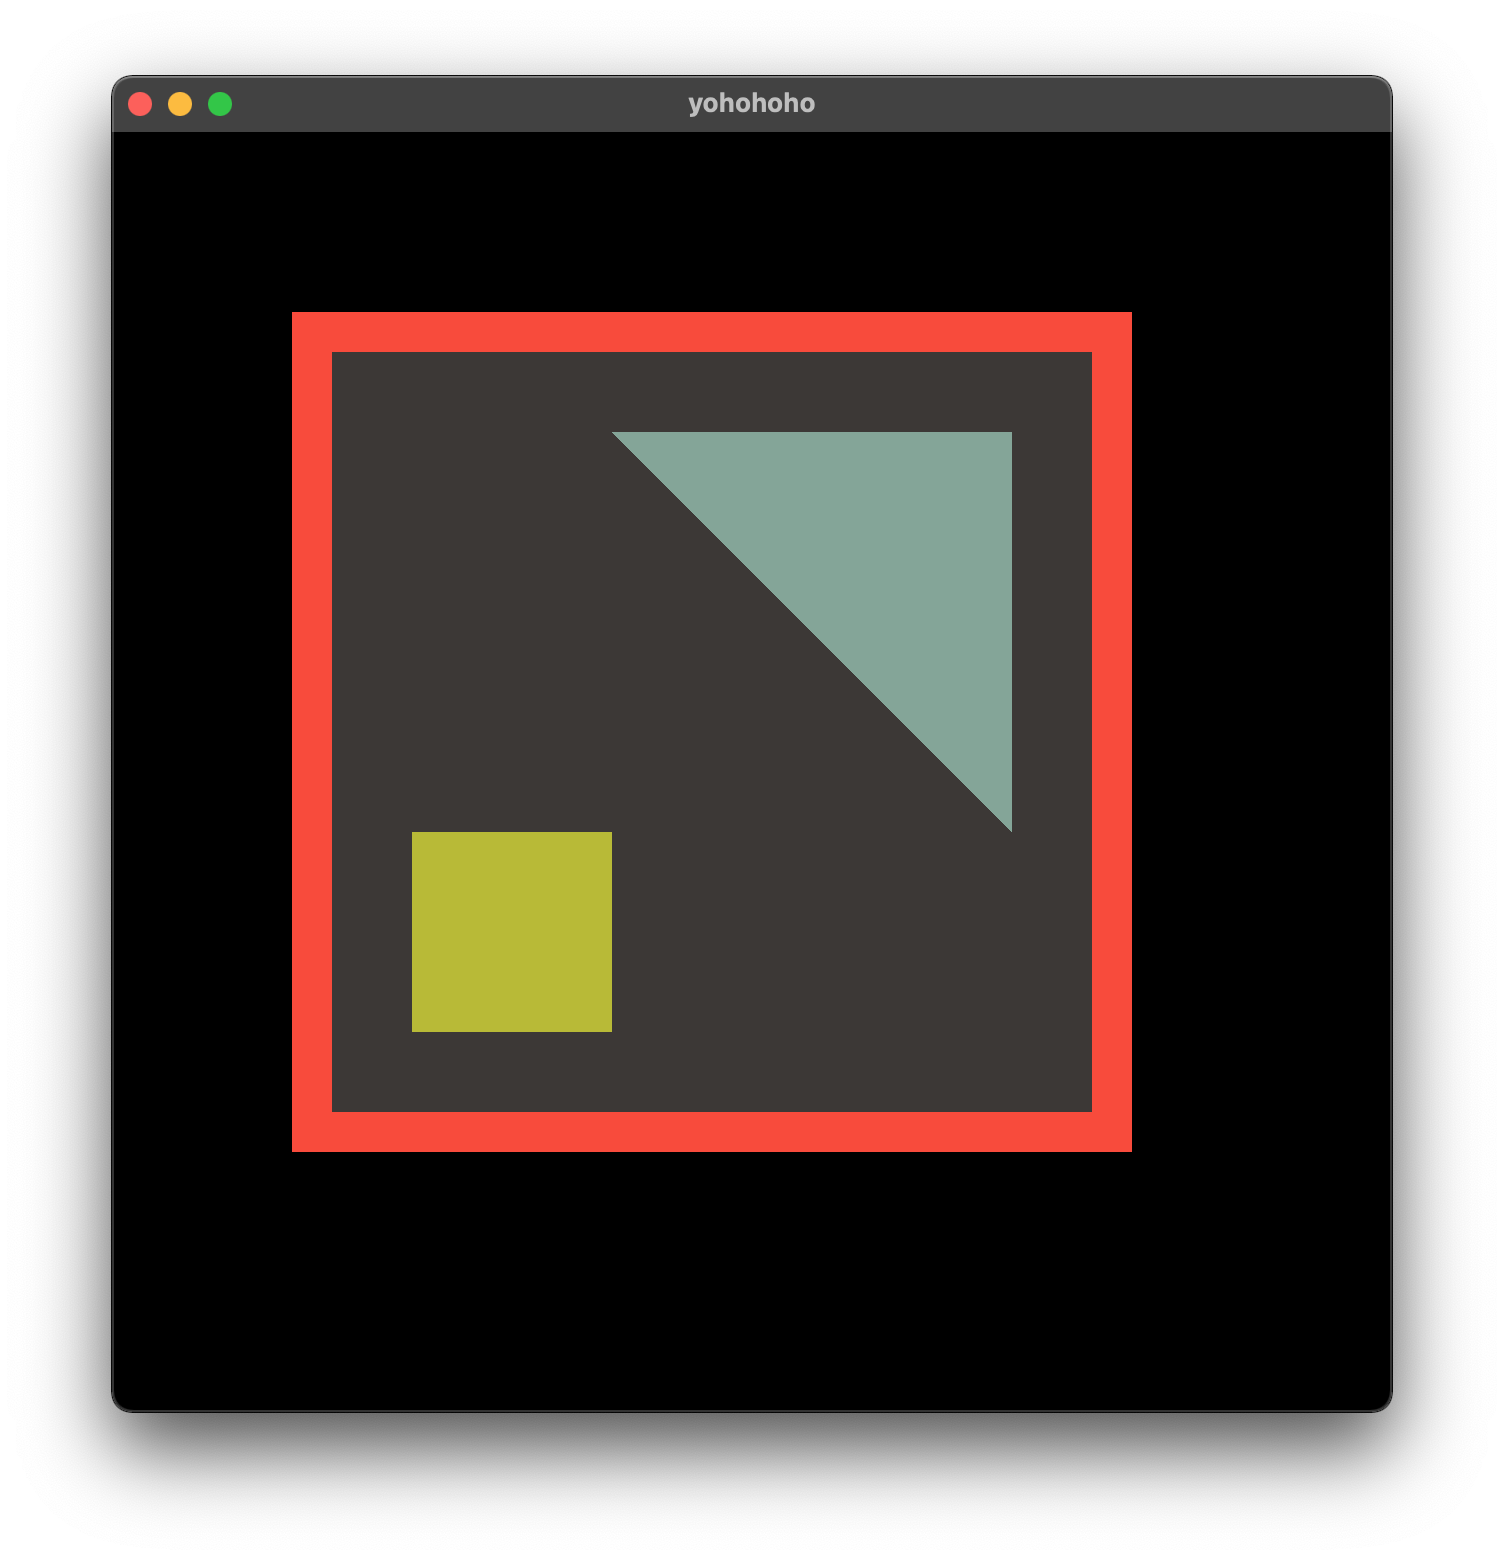
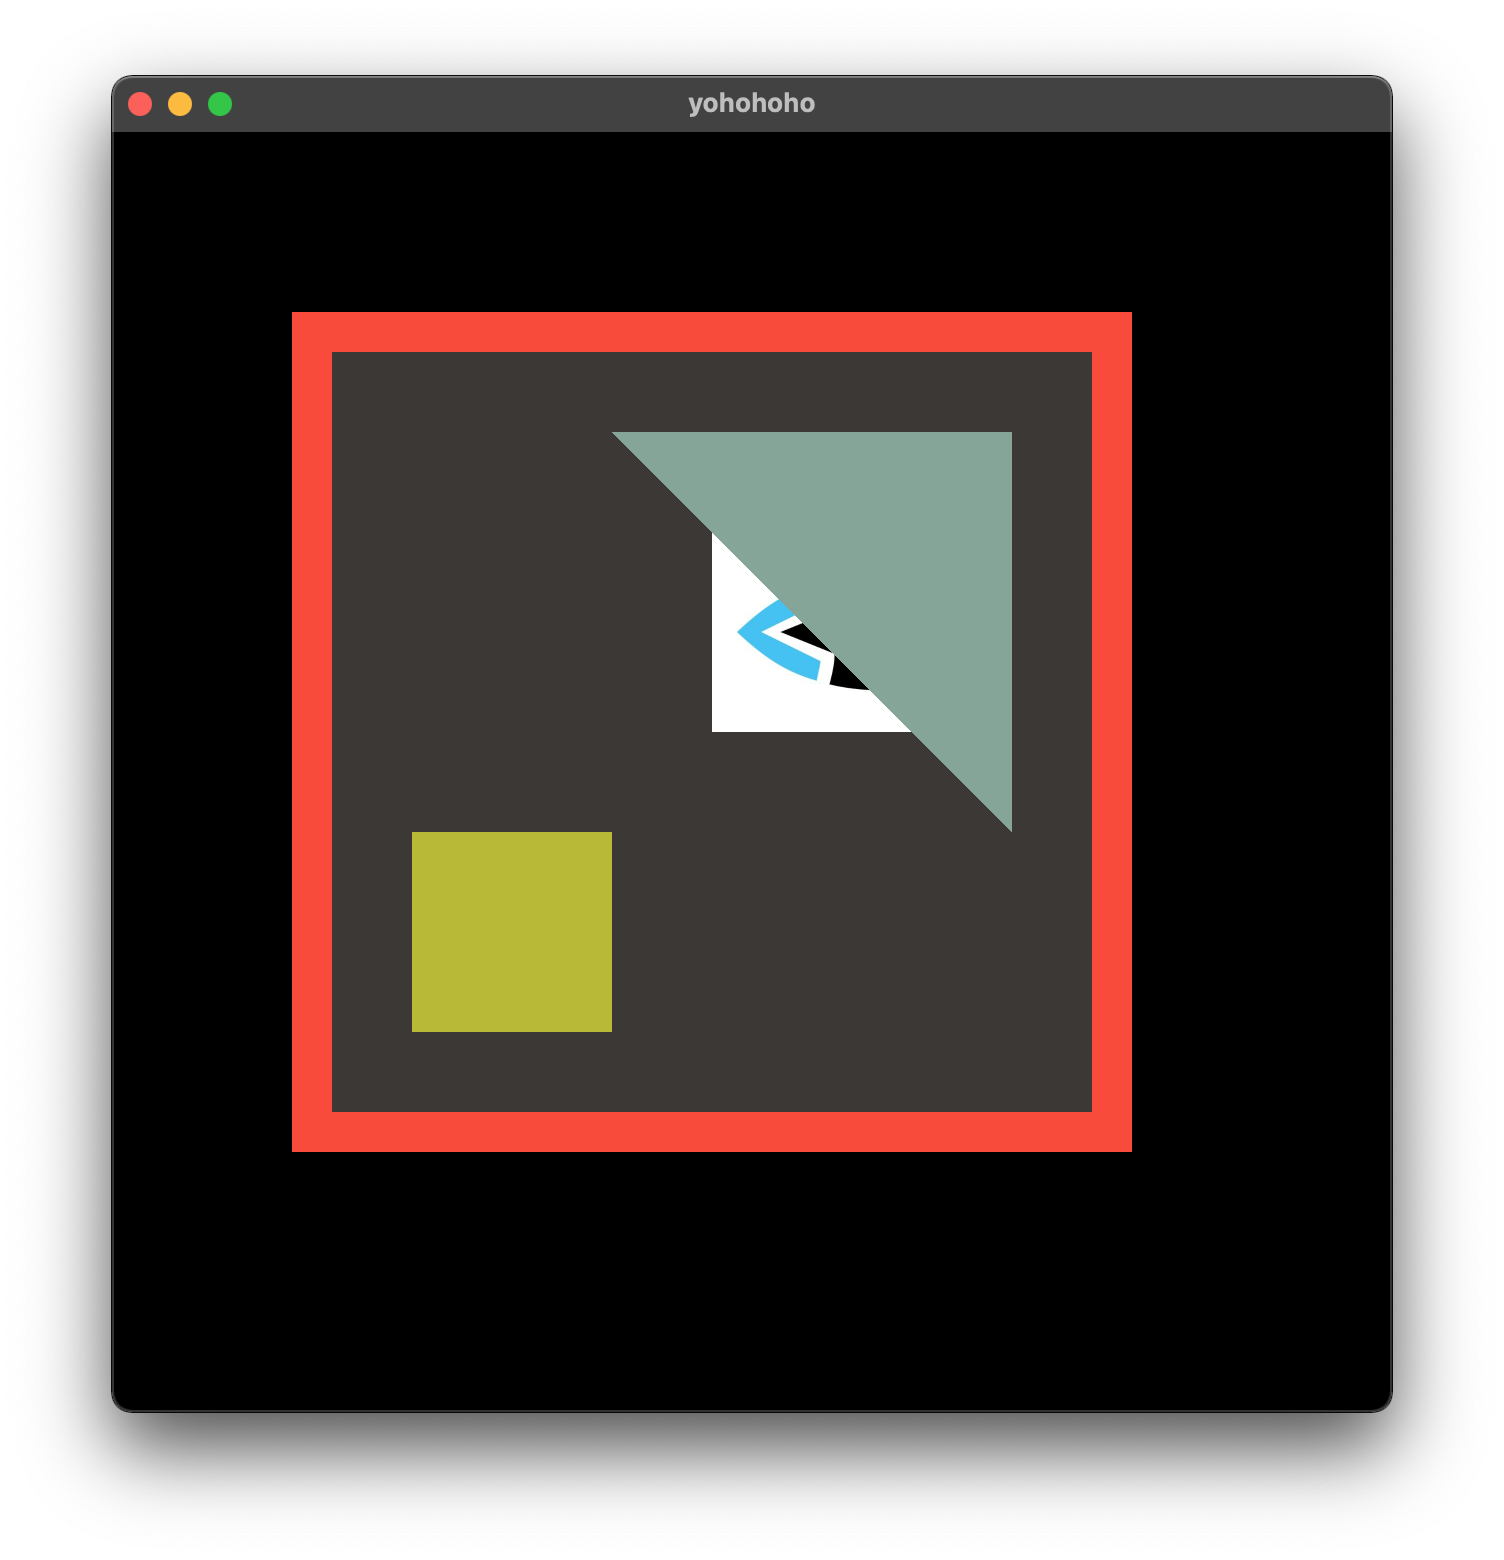
Hook up ImageRenderer and ColoredRenderer to single batched renderer

Changed region(s): [[0.4688, 0.3385, 0.5938, 0.4923]]

diff --git a/src/todo.md b/src/todo.md
@@ -10,18 +10,21 @@
 
 ~~4. Add Triangles.~~
 
-5. Add Textures.
-    ~~1. Add basics texture rendering.~~
+~~5. Add Textures.
+    1. Add basics texture rendering.
     2. Add functions like:
-        ~~- drawImage: parameter is x & y post and width/height should be image size.~~
-        ~~- drawScaledImage: parameter is x, y, width and height.~~
-        ~~- drawSubImage: parameter is x, y, x1, y1, width1, height1.
+        - drawImage: parameter is x & y post and width/height should be image size.
+        - drawScaledImage: parameter is x, y, width and height.
+        - drawSubImage: parameter is x, y, x1, y1, width1, height1.
             - x1, y1, width1 and height1 are sub-image section area.
-            - image width and height will be same as image size.~~
-        ~~- drawScaledSubImage: all parameters.~~
+            - image width and height will be same as image size.
+        - drawScaledSubImage: all parameters.
     3. Clean it up (naming, sizes, etc).
-    4. Make up a main renderer (batch system) and expose all the draw functions from there (colored, images, etc).
+    4. Make up a main renderer (batch system) and expose all the draw functions from there (colored, images, etc).~~
 
-6. Add Texts.
+6. Decide if setColor should effect textures or not.
+7. Figure out how should texture, texture batching should work and how will user specific which texture to draw with draw__Image() functions (api).
+
+8. Add Texts.
 
 Ofc, we build up batch system while we complete above.
